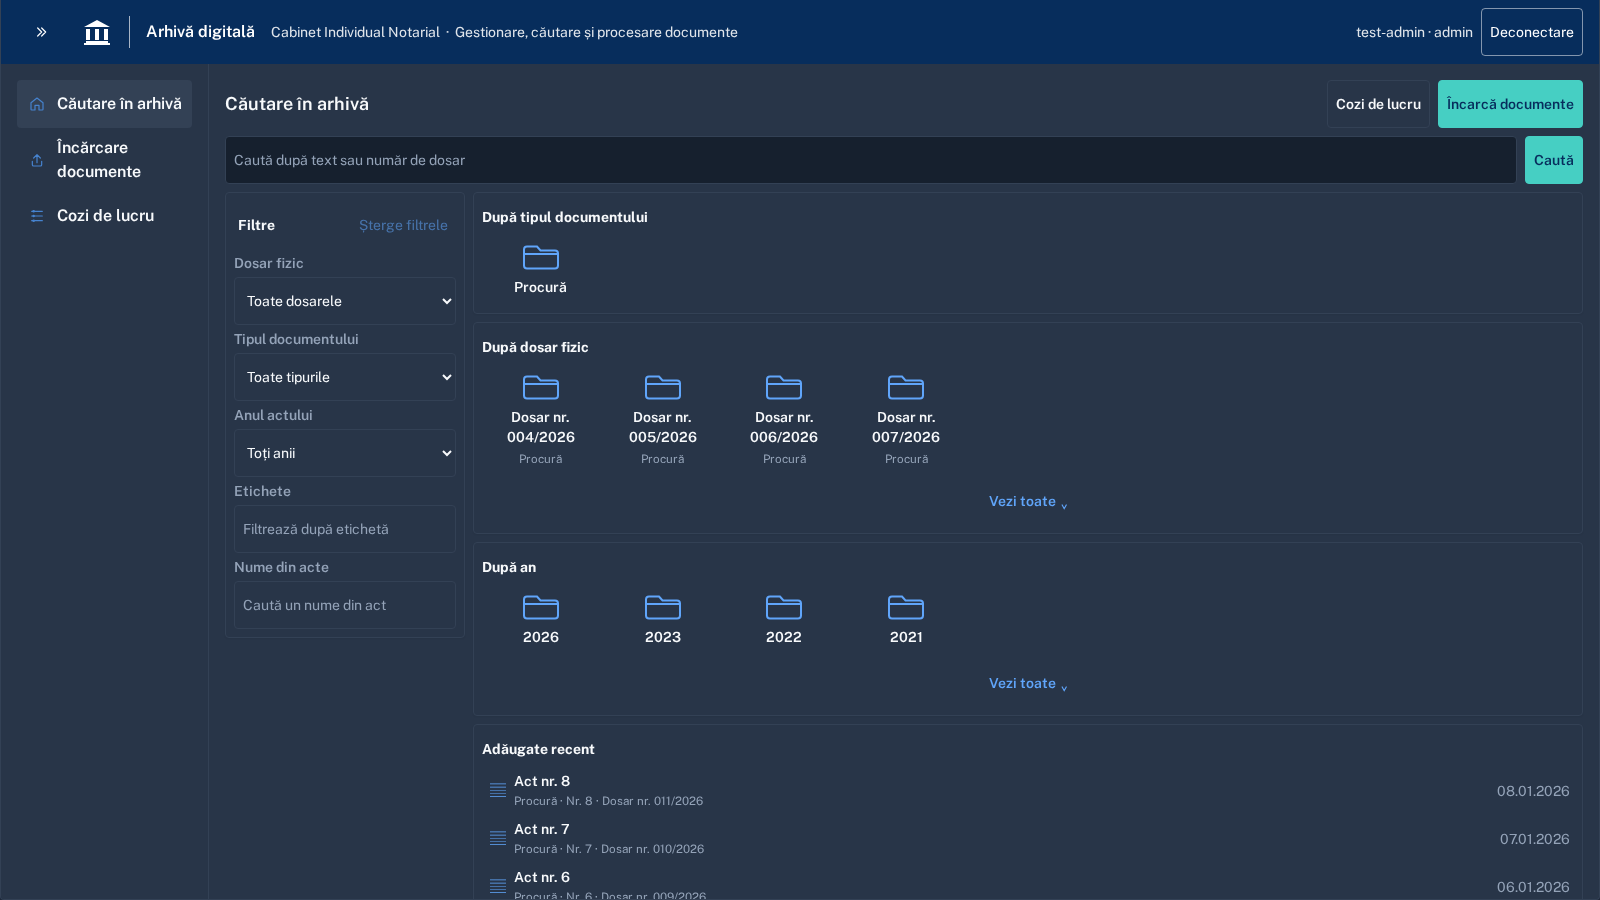
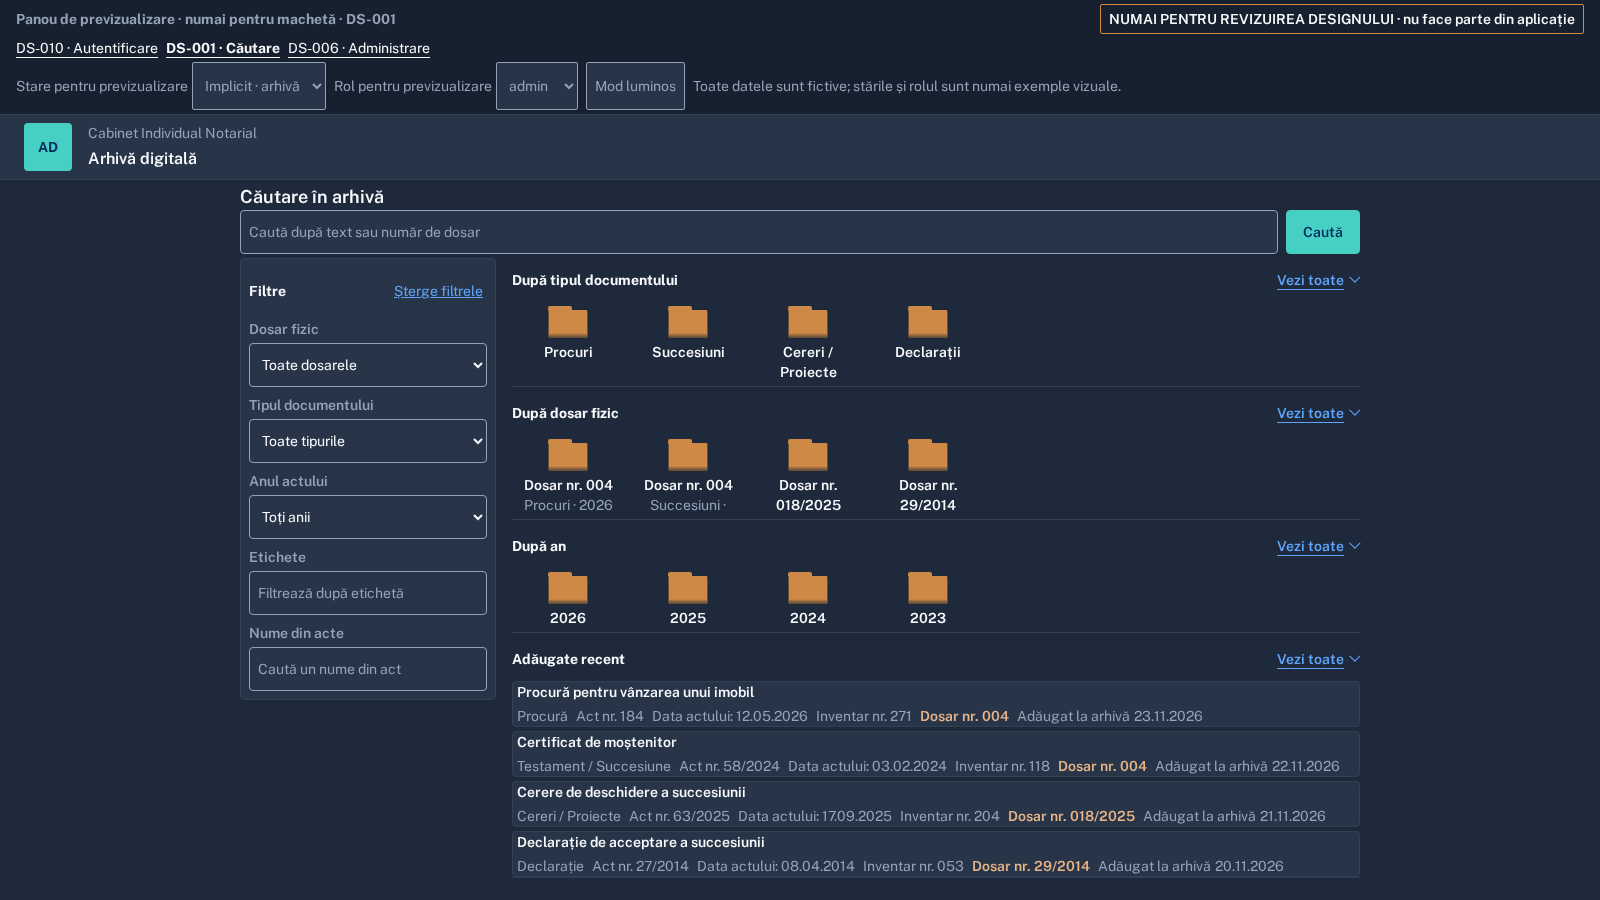
feat(ds-001): simplify archive result cards

diff --git a/docs/design/mocks/DS-001.html b/docs/design/mocks/DS-001.html
@@ -111,7 +111,9 @@
     .results { display: grid; grid-template-columns: repeat(auto-fit, minmax(min(100%, calc(var(--space-3xl) * 4)), 1fr)); gap: var(--space-md); }
     .document-card { min-inline-size: 0; }
     .document-card article { display: grid; align-content: start; gap: var(--space-xs); min-inline-size: 0; block-size: 100%; padding: var(--space-sm); border: thin solid var(--color-border); border-radius: var(--radius-md); background: var(--color-bg-surface); box-shadow: var(--shadow-card); }
-    .document-card h3 { overflow-wrap: anywhere; font: var(--text-small); font-weight: 600; }
+    .document-heading { display: flex; align-items: flex-start; justify-content: space-between; gap: var(--space-xs); }
+    .document-heading h3 { min-inline-size: 0; overflow-wrap: anywhere; font: var(--text-small); font-weight: 600; }
+    .document-type { flex: none; color: var(--color-text-secondary); font: var(--text-small); }
     .document-metadata { display: flex; flex-wrap: wrap; gap: var(--space-xs) var(--space-sm); color: var(--color-text-secondary); font: var(--text-small); }
     .dossier-number { color: var(--color-archival-label-text); font-weight: 600; }
     .excerpt { overflow-wrap: anywhere; }
@@ -339,15 +341,29 @@
       if (compact) li.dataset.addedDate = item.addedDate;
       const article = document.createElement('article');
       article.className = compact ? 'recent-preview' : '';
-      const heading = document.createElement('h3');
-      heading.textContent = item.title;
+      const heading = document.createElement('div');
+      heading.className = compact ? 'recent-main-heading' : 'document-heading';
+      const title = document.createElement('h3');
+      title.textContent = item.title;
+      heading.append(title);
+      if (!compact) {
+        const type = document.createElement('span');
+        type.className = 'document-type';
+        type.textContent = item.type;
+        heading.append(type);
+      }
       const meta = document.createElement('div');
       meta.className = 'recent-meta document-metadata';
-      addMeta(meta, item.type);
-      addMeta(meta, item.actNumber);
-      addMeta(meta, `Data actului: ${item.actDate}`);
-      addMeta(meta, item.inventory);
-      addMeta(meta, item.dossierNumber, 'dossier-number');
+      if (compact) {
+        addMeta(meta, item.type);
+        addMeta(meta, item.actNumber);
+        addMeta(meta, `Data actului: ${item.actDate}`);
+        addMeta(meta, item.inventory);
+        addMeta(meta, item.dossierNumber, 'dossier-number');
+      } else {
+        addMeta(meta, `Data: ${item.actDate}`);
+        addMeta(meta, `Dosar: ${item.dossierNumber.replace(/^Dosar nr\.?\s*/i, '')}`, 'dossier-number');
+      }
       if (compact) {
         const summary = document.createElement('div');
         summary.className = 'recent-main';
@@ -364,17 +380,19 @@
         meta.append(added);
       } else {
         article.append(heading, meta);
-        const excerpt = document.createElement('p');
-        excerpt.className = 'excerpt';
-        if (main.dataset.role === 'cititor') {
-          excerpt.dataset.readerExcerpt = '';
-          excerpt.textContent = item.readerExcerpt;
-        } else {
-          excerpt.dataset.adminExcerpt = '';
-          excerpt.textContent = item.adminExcerpt;
+        if (currentQuery.trim()) {
+          const excerpt = document.createElement('p');
+          excerpt.className = 'excerpt';
+          if (main.dataset.role === 'cititor') {
+            excerpt.dataset.readerExcerpt = '';
+            excerpt.textContent = item.readerExcerpt;
+          } else {
+            excerpt.dataset.adminExcerpt = '';
+            excerpt.textContent = item.adminExcerpt;
+          }
+          highlightText(excerpt, currentQuery);
+          article.append(excerpt);
         }
-        highlightText(excerpt, currentQuery);
-        article.append(excerpt);
         if (main.dataset.role !== 'cititor') {
           const tagList = document.createElement('div');
           tagList.className = 'result-tags';

diff --git a/frontend/src/components/ArchiveSearch.jsx b/frontend/src/components/ArchiveSearch.jsx
@@ -185,11 +185,12 @@ export function ArchiveSearch({ user, onUpload, onQueue }) {
 
   function renderResultCard(document) {
     const excerpt = document.highlight;
+    const dossierNumber = document.dossierNumber.replace(/^Dosar nr\.?\s*/i, '');
     return <li className="archive-result-card" data-testid="search-result" data-act-date={document.actDate || ''} key={document.id}>
       <article>
         <div className="archive-result-heading"><h3><HighlightedText query={query}>{document.title}</HighlightedText></h3><span>{document.type}</span></div>
-        <div className="archive-result-meta"><span>{document.actNumber}</span><span>Data actului: {dateLabel(document.actDate)}</span><span>{document.inventory}</span><strong>{document.dossierNumber}</strong></div>
-        <p className="archive-result-excerpt"><span>{staff ? 'Text extras: ' : 'Text disponibil după anonimizare: '}</span><HighlightedText query={query}>{excerpt}</HighlightedText></p>
+        <div className="archive-result-meta"><span>Data: {dateLabel(document.actDate)}</span><strong>Dosar: {dossierNumber}</strong></div>
+        {query.trim() && <p className="archive-result-excerpt"><span>{staff ? 'Text extras: ' : 'Text disponibil după anonimizare: '}</span><HighlightedText query={query}>{excerpt}</HighlightedText></p>}
         {staff && document.tags.length > 0 && <div className="archive-result-tags" aria-label="Etichete ale documentului">{document.tags.map((tag) => <span key={tag}>{tag}</span>)}</div>}
       </article>
     </li>;
